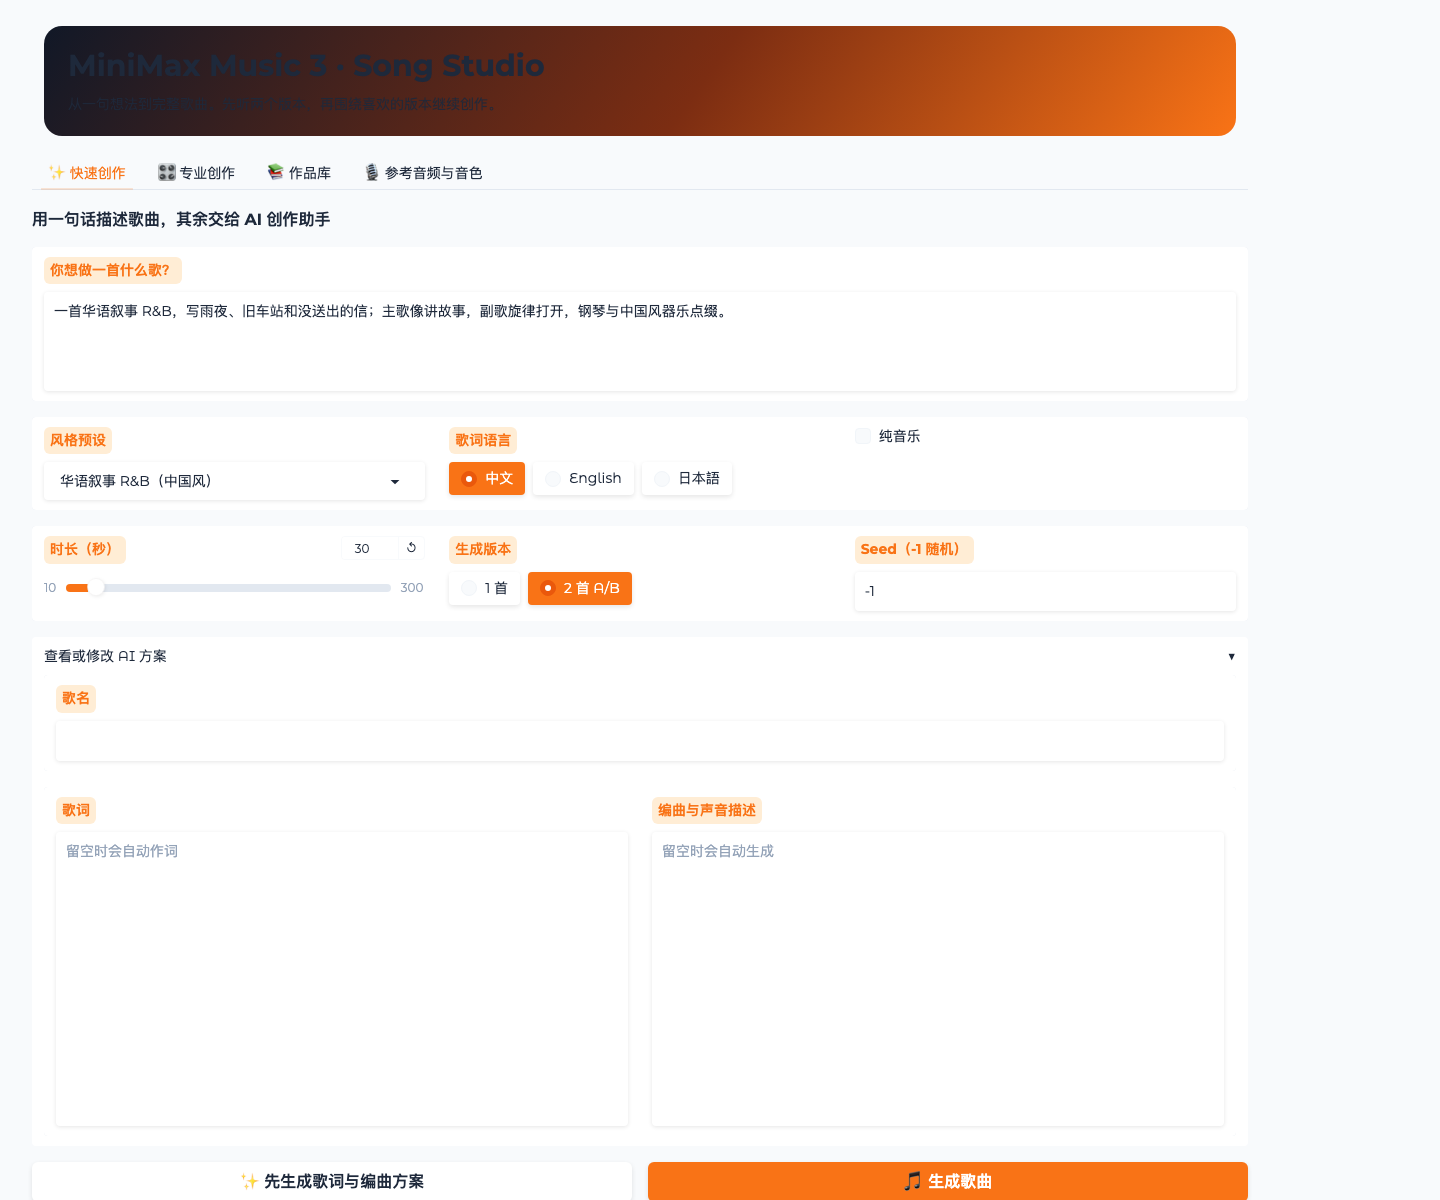
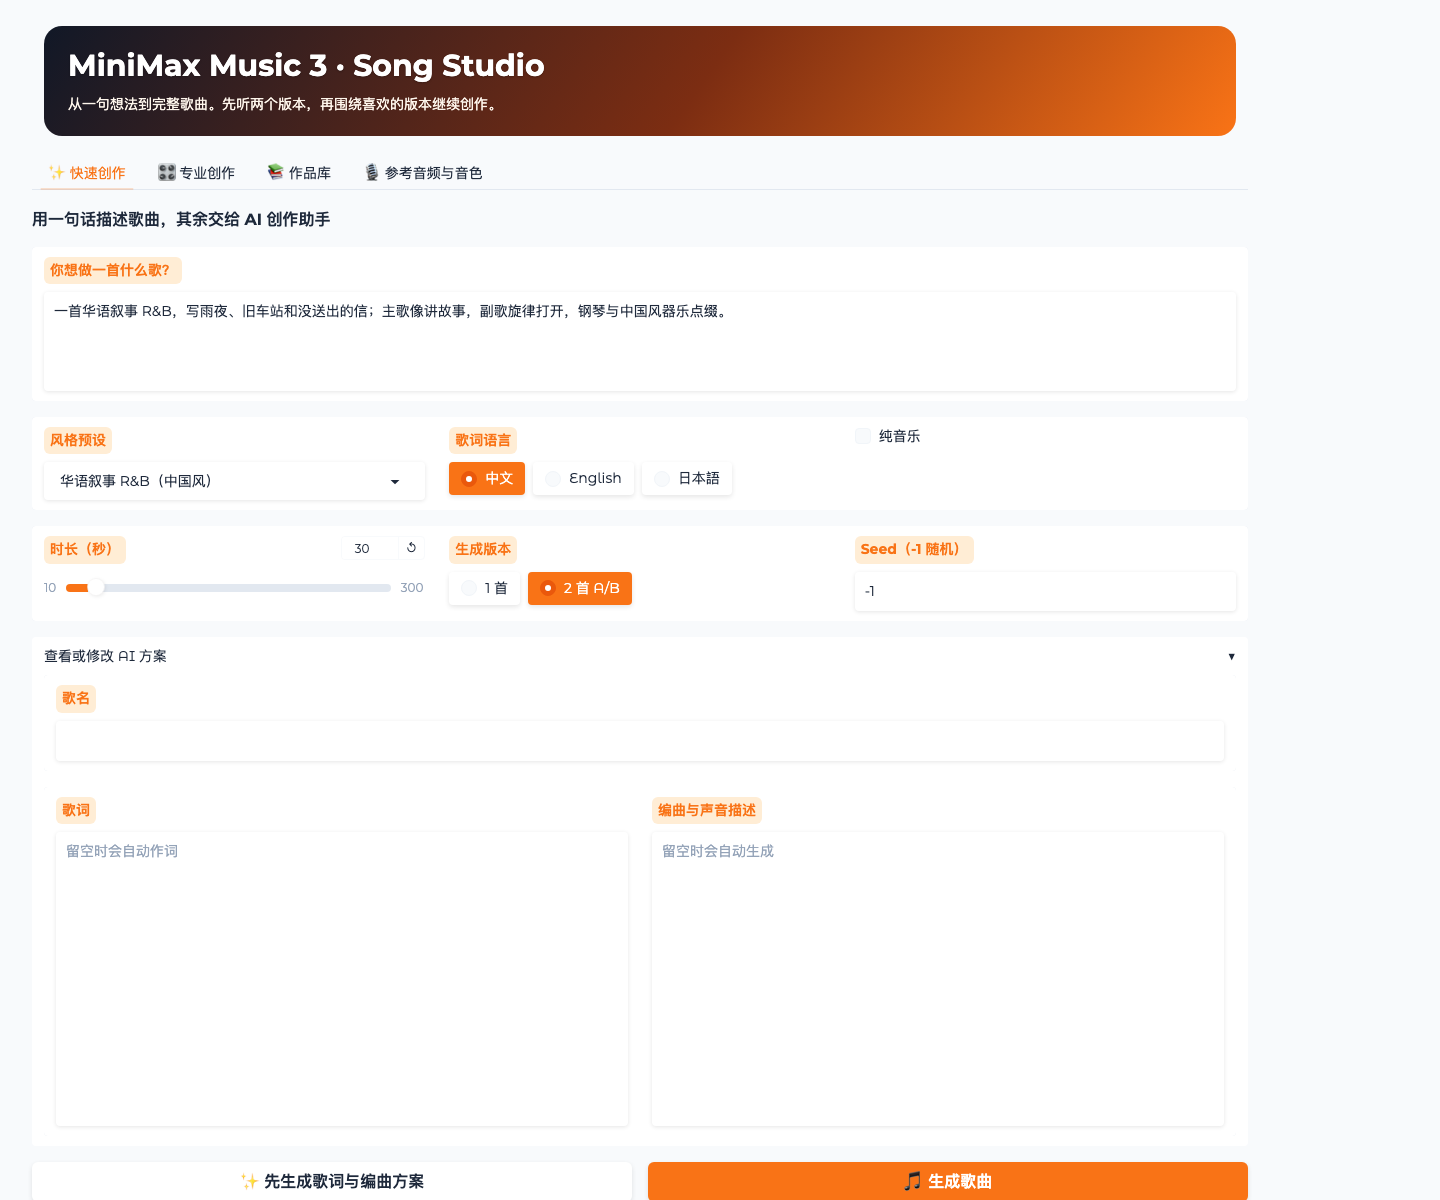
docs: add Music3 release context and refresh UI screenshot

Changed region(s): [[0.0312, 0.0308, 0.375, 0.0925]]

diff --git a/docs/ai-k8s/practices/minimax-music3-sglang-omni.md b/docs/ai-k8s/practices/minimax-music3-sglang-omni.md
@@ -9,6 +9,14 @@ last_reviewed: 2026-08-17
 
 生成式音乐应用通常包含两类完全不同的模型：一类负责理解创作意图、写歌词和整理编曲描述，另一类负责把歌词与编曲条件真正渲染成音频。本文记录一套已经跑通的实现：在 GPU 集群中用 SGLang-Omni 部署 MiniMax-Music3，再接入一个 OpenAI 兼容的大语言模型作为“歌曲策划”，最后用 Gradio 提供接近 Suno 的简化创作界面。
 
+## 发布背景：从在线音乐产品到可部署模型
+
+MiniMax 对生成式音乐的投入并不是从 Music 3 才开始。其公开产品线可以追溯到 2024 年 8 月 31 日发布的 [Music-01](https://www.minimax.io/news/music-01)：当时已经能够同时生成人声与伴奏，但单次时长上限约为 60 秒。此后，[Music 1.5](https://www.minimax.io/news/minimax-music-15) 在 2025 年 9 月把歌曲时长扩展到 4 分钟，[Music 2.0](https://www.minimax.io/news/minimax-music-20) 在同年 10 月继续强化人声、配器和段落结构；到 2026 年初，[Music 2.5](https://www.minimax.io/news/minimax-music-25) 与 [Music 2.6](https://www.minimax.io/news/music-26) 又把段落级控制、乐器表现和翻唱等能力推向更完整的歌曲生产流程。
+
+2026 年 8 月 7 日，[MiniMaxAI/MiniMax-Music3](https://huggingface.co/MiniMaxAI/MiniMax-Music3) 模型仓库在 Hugging Face 上线，公开了可下载的模型资产。六天后的 8 月 13 日，SGLang-Omni 主线通过 [PR #1521](https://github.com/sgl-project/sglang-omni/pull/1521) 加入 Music 3 推理支持，并给出了官方的 [部署与调用示例](https://github.com/sgl-project/sglang-omni/blob/main/docs/cookbook/minimax_music3.md)。从模型公开到主流推理框架接入只相隔不到一周，说明社区对“可自行部署的文本生成音乐”有很强的工程需求。
+
+截至本文验证日 2026 年 8 月 17 日，该模型仓库在约十天内已记录 8,639 次下载和 864 个点赞。这个数字不能直接代表音质排名或市场份额，但足以说明开发者关注度很高。Music 3 更重要的影响在于：生成音乐不再只能停留在厂商网页产品中，团队可以把公开模型资产、可编程推理服务、大模型歌词策划和自己的 UI 串成一条私有工作流，并对提示词、Seed、时长与 A/B 版本进行可复现控制。
+
 这套方案已经在一张 45 GiB NVIDIA L20 上完成验证。20 秒歌曲方案的生成约耗时 27 秒；两段 10 秒音乐采用相邻 Seed 顺序生成，分别耗时 26.6 秒和 18.6 秒。这里的数字只是一次功能验证结果，不应当视为严格性能基准。
 
 ## 1. 最终架构
